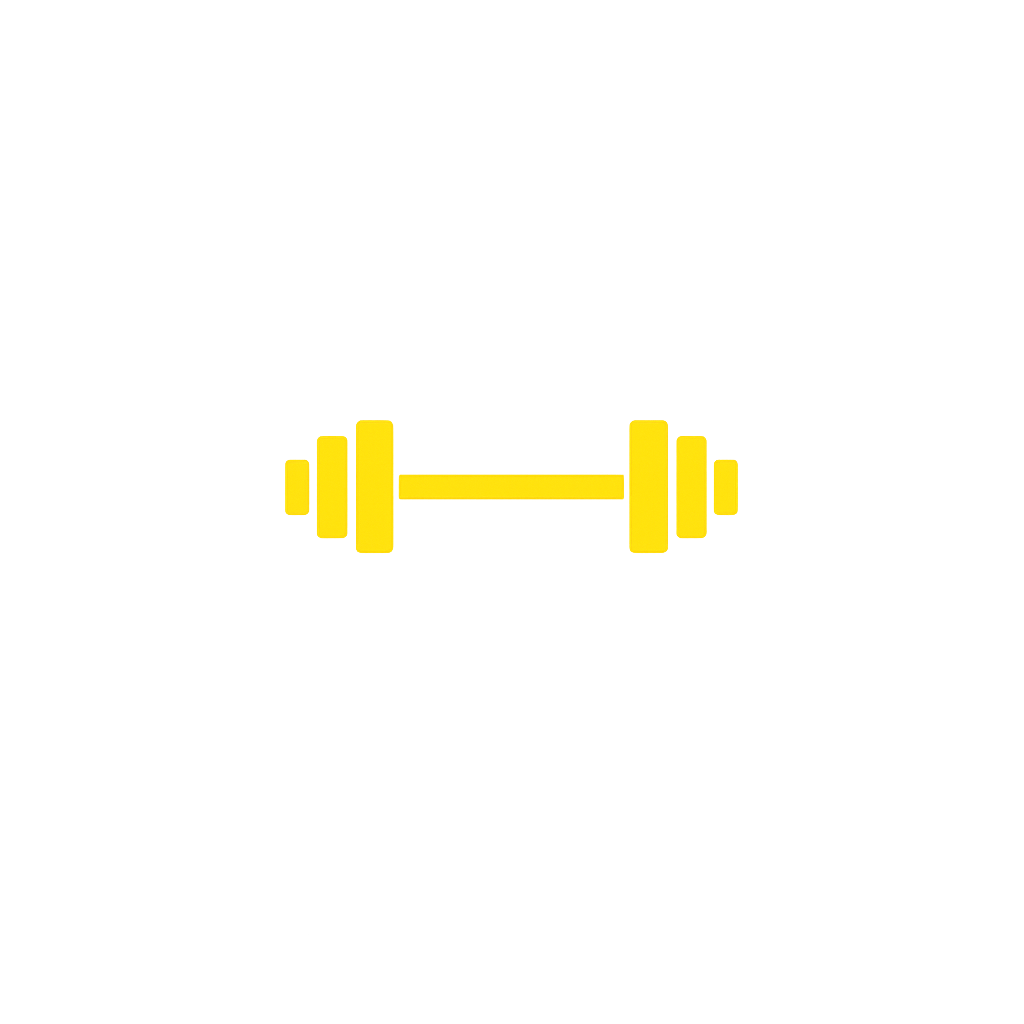
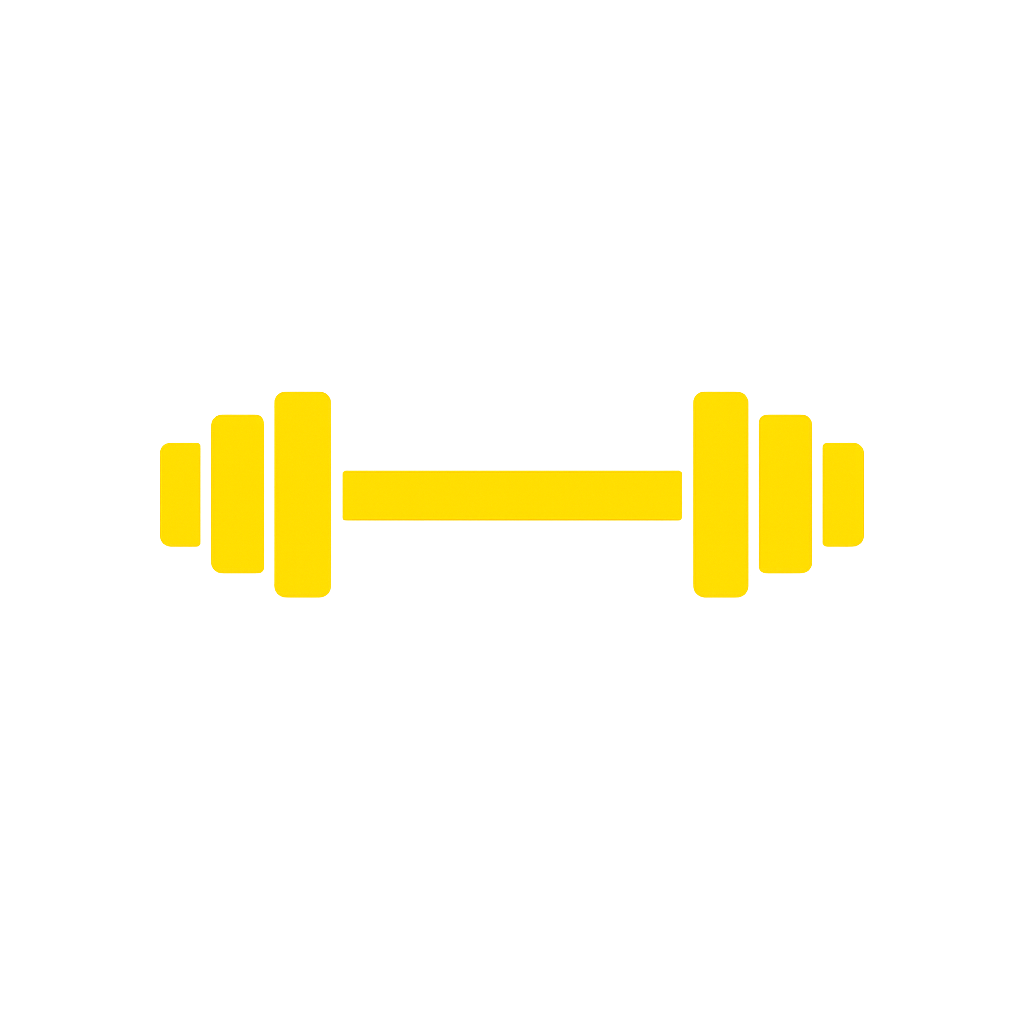
phase 2

Changed region(s): [[0.1562, 0.375, 0.8438, 0.5938]]

diff --git a/docs/index.html b/docs/index.html
@@ -582,68 +582,275 @@
   </div>
 
   <!-- ======================== PHASE 2 ======================== -->
-  <div class="phase-section" id="phase-1">
-    <div class="phase-header">
-      <div class="phase-num">02</div>
-      <div class="phase-info">
-        <h2>CONTRÔLE EXCENTRIQUE</h2>
-        <p>Charger le tendon et les structures du genou via des excentriques lents. Phase de remodelage tissulaire.</p>
-        <span class="phase-duration">Semaines 5 à 8</span>
-      </div>
+<div class="phase-section" id="phase-1">
+  <div class="phase-header">
+    <div class="phase-num">02</div>
+    <div class="phase-info">
+      <h2>CONTRÔLE EXCENTRIQUE</h2>
+      <p>Charger le tendon et les structures du genou via des excentriques lents. Phase de remodelage tissulaire.</p>
+      <span class="phase-duration">Semaines 5 à 8</span>
     </div>
+  </div>
 
-    <div class="principle-box">
-      <strong>Principe THP :</strong> L'excentrique lent est ce qui remodelise le tendon rotulien. On allonge le temps sous tension vers le bas. Le genou apprend à absorber la charge progressivement. On garde l'ISO mais on ajoute maintenant du mouvement contrôlé.
-    </div>
+  <div class="principle-box">
+    <strong>Principe THP :</strong> L'excentrique lent est ce qui remodelise le tendon rotulien. On allonge le temps sous tension vers le bas. Le genou apprend à absorber la charge progressivement.
+  </div>
 
-    <div class="section-title">💪 Ancre isométrique — Évolution Phase 2</div>
+  <!-- ===== SÉANCE A ===== -->
+  <div class="session-label">Séance A — Lundi (ou Jour 1)</div>
+  <div class="session-title">BAS DU CORPS — EXCENTRIQUE</div>
+    <div class="section-title">💪 Isométrique</div>
     <table class="ex-table">
-      <thead><tr><th>Exercice</th><th>Sets × Durée</th><th>Note</th></tr></thead>
+      <thead><tr><th>Exercice</th><th>Sets × Durée</th><th>Rest</th></tr></thead>
       <tbody>
         <tr>
-          <td><span class="ex-name">Leg extension isométrique <span class="iso-badge">ISO</span></span><div class="ex-note">Augmenter légèrement le poids si toléré. Tenir 45s au lieu de 30s.</div></td>
+          <td><span class="ex-name">Leg extension isométrique <span class="iso-badge">ISO</span></span></td>
           <td class="ex-sets">4 × 45s</td>
-          <td>+5-10% charge si 30s était facile</td>
+          <td class="ex-rest">Quand tu es prêt</td>
         </tr>
       </tbody>
     </table>
 
-    <div class="section-title">🆕 Exercices ajoutés / modifiés en Phase 2</div>
+        <div class="section-title">🔥 Échauffement — 10 min</div>
     <table class="ex-table">
-      <thead><tr><th>Exercice</th><th>Sets × Reps</th><th>Tempo clé</th><th>Rest</th></tr></thead>
+      <thead><tr><th>Exercice</th><th>Durée / Reps</th></tr></thead>
+      <tbody>
+        <tr><td><span class="ex-name">Toe Touch</span></td><td>10</td></tr>
+        <tr><td><span class="ex-name">Deep Squat</span></td><td>10</td></tr>
+        <tr><td><span class="ex-name">Lunge</span></td><td>10</td></tr>
+        <tr><td><span class="ex-name">Arm Cicles</span></td><td>10</td></tr>
+        <tr><td><span class="ex-name">Side Lunge</span></td><td>10</td></tr>
+        <tr><td><span class="ex-name">Leg Swings</span></td><td>10</td></tr>
+        <tr><td><span class="ex-name">Kneeling Ankle Stretch</span></td><td>30s</td></tr>
+      </tbody>
+    </table>
+
+        <div class="section-title">🔥 Échauffement avec barre — 5 min</div>
+    <table class="ex-table">
+      <thead><tr><th>Exercice</th><th>Reps</th></tr></thead>
       <tbody>
         <tr>
-          <td><span class="ex-name">Leg extension excentrique</span><div class="ex-note">Monter avec les deux jambes (ou en aidant avec les mains), descendre avec une jambe en 4-5 secondes. Genou gauche = côté à travailler.</div></td>
-          <td class="ex-sets">4 × 8</td>
-          <td class="ex-tempo">1-0-5-0 (descente lente)</td>
-          <td class="ex-rest">2 min</td>
-        </tr>
+          <td><span class="ex-name">Overhead Press</span></td>
+          <td class="ex-sets">5</td>
+          </tr>
         <tr>
-          <td><span class="ex-name">Squat bulgare (poids léger ou poids du corps)</span><div class="ex-note">Pied arrière sur banc. Descente lente. Amplitude réduite si douleur.</div></td>
-          <td class="ex-sets">3 × 8/côté</td>
-          <td class="ex-tempo">4-1-2-0</td>
-          <td class="ex-rest">90s</td>
-        </tr>
+          <td><span class="ex-name">Front squat</span></td>
+          <td class="ex-sets">5</td>
+          </tr>
         <tr>
-          <td><span class="ex-name">Step-down excentrique (boîte 25-30cm)</span><div class="ex-note">Debout sur la boîte, descendre sur UNE jambe (gauche) en 4 sec. Revenir en posant les deux pieds.</div></td>
-          <td class="ex-sets">3 × 10/côté</td>
-          <td class="ex-tempo">4s descente</td>
-          <td class="ex-rest">90s</td>
-        </tr>
-        <tr>
-          <td><span class="ex-name">Leg press unilatéral (jambe gauche)</span><div class="ex-note">Amplitude progressive. Comparer la force G vs D.</div></td>
-          <td class="ex-sets">3 × 10</td>
-          <td class="ex-tempo">3-1-2-0</td>
-          <td class="ex-rest">90s</td>
-        </tr>
-        <tr>
-          <td><span class="ex-name">Nordic curl (partiel ou avec aide)</span><div class="ex-note">Renforcement ischio. Protège le genou en le stabilisant . Commencer avec une amplitude très réduite.</div></td>
-          <td class="ex-sets">3 × 5</td>
-          <td class="ex-tempo">Lent — contrôler la descente</td>
-          <td class="ex-rest">2 min</td>
+          <td><span class="ex-name">Back Squat</span></td>
+          <td class="ex-sets">5</td>
         </tr>
       </tbody>
     </table>
+
+  <div class="section-title">🦵 Bloc principal — Excentrique</div>
+  <table class="ex-table">
+    <thead><tr><th>Exercice</th><th>Sets × Reps</th><th>Tempo</th><th>Rest</th></tr></thead>
+    <tbody>
+      <tr>
+        <td><span class="ex-name">Leg extension excentrique</span><div class="ex-note">Monter avec les deux jambes, descendre avec le gauche seul en 5 sec. C'est l'exercice central de la phase.</div></td>
+        <td class="ex-sets">4 × 8</td>
+        <td class="ex-tempo">1-0-5-0</td>
+        <td class="ex-rest">2 min</td>
+      </tr>
+      <tr>
+        <td><span class="ex-name">Squat bulgare (poids du corps ou léger)</span><div class="ex-note">Pied arrière sur banc. Descente lente et contrôlée. Amplitude réduite si pincement.</div></td>
+        <td class="ex-sets">3 × 8/côté</td>
+        <td class="ex-tempo">4-1-2-0</td>
+        <td class="ex-rest">90s</td>
+      </tr>
+      <tr>
+        <td><span class="ex-name">Leg press unilatéral (jambe gauche)</span><div class="ex-note">Amplitude progressive. Comparer la force G vs D — noter l'écart.</div></td>
+        <td class="ex-sets">3 × 10</td>
+        <td class="ex-tempo">3-1-2-0</td>
+        <td class="ex-rest">90s</td>
+      </tr>
+      <tr>
+        <td><span class="ex-name">Nordic curl (partiel ou avec aide)</span><div class="ex-note">Amplitude très réduite au début. Contrôler la descente — c'est la phase excentrique qui compte.</div></td>
+        <td class="ex-sets">3 × 5</td>
+        <td class="ex-tempo">Descente 4-5s contrôlée</td>
+        <td class="ex-rest">2 min</td>
+      </tr>
+      <tr>
+        <td><span class="ex-name">Hip thrust avec barre</span><div class="ex-note">Extension de hanche. Protège le genou, renforce le fessier.</div></td>
+        <td class="ex-sets">3 × 12</td>
+        <td class="ex-tempo">2-2-1-0</td>
+        <td class="ex-rest">75s</td>
+      </tr>
+    </tbody>
+  </table>
+
+  <div class="section-title">🧱 Tronc</div>
+  <table class="ex-table">
+    <thead><tr><th>Exercice</th><th>Sets × Reps</th><th>Note</th></tr></thead>
+    <tbody>
+      <tr><td><span class="ex-name">Planche avant</span></td><td class="ex-sets">3 × 40s</td><td>+10s vs Phase 1</td></tr>
+      <tr><td><span class="ex-name">Dead bug</span></td><td class="ex-sets">3 × 10/côté</td><td>Dos collé au sol, lent</td></tr>
+    </tbody>
+  </table>
+
+  <div class="divider"></div>
+
+  <!-- ===== SÉANCE B ===== -->
+  <div class="session-label">Séance B — Mercredi (ou Jour 2)</div>
+  <div class="session-title">HAUT DU CORPS + ISO MAINTENANCE</div>
+
+    <div class="section-title">💪 Isométrique</div>
+    <table class="ex-table">
+      <thead><tr><th>Exercice</th><th>Sets × Durée</th><th>Rest</th></tr></thead>
+      <tbody>
+        <tr>
+          <td><span class="ex-name">Leg extension isométrique <span class="iso-badge">ISO</span></span></td>
+          <td class="ex-sets">4 × 45s</td>
+          <td class="ex-rest">Quand tu es prêt</td>
+        </tr>
+      </tbody>
+    </table>
+
+        <div class="section-title">🔥 Échauffement — 10 min</div>
+    <table class="ex-table">
+      <thead><tr><th>Exercice</th><th>Durée / Reps</th></tr></thead>
+      <tbody>
+        <tr><td><span class="ex-name">Toe Touch</span></td><td>10</td></tr>
+        <tr><td><span class="ex-name">Deep Squat</span></td><td>10</td></tr>
+        <tr><td><span class="ex-name">Lunge</span></td><td>10</td></tr>
+        <tr><td><span class="ex-name">Arm Cicles</span></td><td>10</td></tr>
+        <tr><td><span class="ex-name">Side Lunge</span></td><td>10</td></tr>
+        <tr><td><span class="ex-name">Leg Swings</span></td><td>10</td></tr>
+        <tr><td><span class="ex-name">Kneeling Ankle Stretch</span></td><td>30s</td></tr>
+      </tbody>
+    </table>
+
+        <div class="section-title">🔥 Échauffement avec barre — 5 min</div>
+    <table class="ex-table">
+      <thead><tr><th>Exercice</th><th>Reps</th></tr></thead>
+      <tbody>
+        <tr>
+          <td><span class="ex-name">Overhead Press</span></td>
+          <td class="ex-sets">5</td>
+          </tr>
+        <tr>
+          <td><span class="ex-name">Front squat</span></td>
+          <td class="ex-sets">5</td>
+          </tr>
+        <tr>
+          <td><span class="ex-name">Back Squat</span></td>
+          <td class="ex-sets">5</td>
+        </tr>
+      </tbody>
+    </table>
+
+  <div class="section-title">🦾 Haut du corps</div>
+  <table class="ex-table">
+    <thead><tr><th>Exercice</th><th>Sets × Reps</th><th>Tempo</th><th>Rest</th></tr></thead>
+    <tbody>
+      <tr><td><span class="ex-name">Tirage horizontal (câble ou machine)</span><div class="ex-note">Omoplate rétractée en fin de mouvement.</div></td><td class="ex-sets">4 × 10</td><td class="ex-tempo">3-1-2-0</td><td class="ex-rest">75s</td></tr>
+      <tr><td><span class="ex-name">Développé haltères (incliné léger)</span><div class="ex-note">Descente contrôlée. Ne pas rebondir en bas.</div></td><td class="ex-sets">4 × 10</td><td class="ex-tempo">3-0-2-0</td><td class="ex-rest">75s</td></tr>
+      <tr><td><span class="ex-name">Lat pulldown</span></td><td class="ex-sets">3 × 10</td><td class="ex-tempo">3-1-2-0</td><td class="ex-rest">75s</td></tr>
+      <tr><td><span class="ex-name">Curl biceps haltères</span><div class="ex-note">Supination complète. Pas de swing.</div></td><td class="ex-sets">3 × 12</td><td class="ex-tempo">2-1-2-0</td><td class="ex-rest">60s</td></tr>
+      <tr><td><span class="ex-name">Extensions triceps (câble)</span></td><td class="ex-sets">3 × 12</td><td class="ex-tempo">2-1-2-0</td><td class="ex-rest">60s</td></tr>
+      <tr><td><span class="ex-name">Face pull (câble)</span><div class="ex-note">Santé des épaules. Coudes hauts, rotation externe en fin de mouvement.</div></td><td class="ex-sets">3 × 15</td><td class="ex-tempo">2-1-1-0</td><td class="ex-rest">60s</td></tr>
+    </tbody>
+  </table>
+
+  <div class="divider"></div>
+
+  <!-- ===== SÉANCE C ===== -->
+  <div class="session-label">Séance C — Vendredi (ou Jour 3)</div>
+  <div class="session-title">BAS DU CORPS VARIATION + TRONC</div>
+
+    <div class="section-title">💪 Isométrique</div>
+    <table class="ex-table">
+      <thead><tr><th>Exercice</th><th>Sets × Durée</th><th>Rest</th></tr></thead>
+      <tbody>
+        <tr>
+          <td><span class="ex-name">Leg extension isométrique <span class="iso-badge">ISO</span></span></td>
+          <td class="ex-sets">4 × 45s</td>
+          <td class="ex-rest">Quand tu es prêt</td>
+        </tr>
+      </tbody>
+    </table>
+
+        <div class="section-title">🔥 Échauffement — 10 min</div>
+    <table class="ex-table">
+      <thead><tr><th>Exercice</th><th>Durée / Reps</th></tr></thead>
+      <tbody>
+        <tr><td><span class="ex-name">Toe Touch</span></td><td>10</td></tr>
+        <tr><td><span class="ex-name">Deep Squat</span></td><td>10</td></tr>
+        <tr><td><span class="ex-name">Lunge</span></td><td>10</td></tr>
+        <tr><td><span class="ex-name">Arm Cicles</span></td><td>10</td></tr>
+        <tr><td><span class="ex-name">Side Lunge</span></td><td>10</td></tr>
+        <tr><td><span class="ex-name">Leg Swings</span></td><td>10</td></tr>
+        <tr><td><span class="ex-name">Kneeling Ankle Stretch</span></td><td>30s</td></tr>
+      </tbody>
+    </table>
+
+        <div class="section-title">🔥 Échauffement avec barre — 5 min</div>
+    <table class="ex-table">
+      <thead><tr><th>Exercice</th><th>Reps</th></tr></thead>
+      <tbody>
+        <tr>
+          <td><span class="ex-name">Overhead Press</span></td>
+          <td class="ex-sets">5</td>
+          </tr>
+        <tr>
+          <td><span class="ex-name">Front squat</span></td>
+          <td class="ex-sets">5</td>
+          </tr>
+        <tr>
+          <td><span class="ex-name">Back Squat</span></td>
+          <td class="ex-sets">5</td>
+        </tr>
+      </tbody>
+    </table>
+
+  <div class="section-title">🦵 Bas du corps — Excentrique variation</div>
+  <table class="ex-table">
+    <thead><tr><th>Exercice</th><th>Sets × Reps</th><th>Tempo</th><th>Rest</th></tr></thead>
+    <tbody>
+      <tr>
+        <td><span class="ex-name">Step-down excentrique (boîte 30cm)</span><div class="ex-note">Descendre sur le gauche en 5 sec. Revenir en posant les deux pieds. Progression vs sem. précédentes (boîte plus haute, descente plus lente).</div></td>
+        <td class="ex-sets">4 × 10/côté</td>
+        <td class="ex-tempo">5s descente</td>
+        <td class="ex-rest">90s</td>
+      </tr>
+      <tr>
+        <td><span class="ex-name">RDL haltères (Romanian deadlift)</span><div class="ex-note">Peu de stress sur le genou, beaucoup sur les ischio et fessier.</div></td>
+        <td class="ex-sets">3 × 10</td>
+        <td class="ex-tempo">3-1-2-0</td>
+        <td class="ex-rest">90s</td>
+      </tr>
+      <tr>
+        <td><span class="ex-name">Leg curl couché unilatéral</span><div class="ex-note">Gauche en premier. Comparer G vs D — viser la symétrie semaine après semaine.</div></td>
+        <td class="ex-sets">3 × 10/côté</td>
+        <td class="ex-tempo">3-1-2-0</td>
+        <td class="ex-rest">75s</td>
+      </tr>
+      <tr>
+        <td><span class="ex-name">Abduction de hanche (machine)</span></td>
+        <td class="ex-sets">3 × 15</td>
+        <td class="ex-tempo">2-1-2-0</td>
+        <td class="ex-rest">60s</td>
+      </tr>
+      <tr>
+        <td><span class="ex-name">Calf raise unilatéral (machine)</span><div class="ex-note">Gauche en premier. Pause 2s en bas — étire le tendon d'Achille et charge le mollet en position allongée.</div></td>
+        <td class="ex-sets">4 × 12/côté</td>
+        <td class="ex-tempo">2-2-1-0</td>
+        <td class="ex-rest">60s</td>
+      </tr>
+    </tbody>
+  </table>
+
+  <div class="section-title">🧱 Tronc</div>
+  <table class="ex-table">
+    <thead><tr><th>Exercice</th><th>Sets × Reps</th><th>Note</th></tr></thead>
+    <tbody>
+      <tr><td><span class="ex-name">Planche avant</span></td><td class="ex-sets">3 × 40s</td><td>+10s vs Phase 1</td></tr>
+      <tr><td><span class="ex-name">Pallof press (câble)</span><div class="ex-note">Anti-rotation. Stabilise le bassin.</div></td><td class="ex-sets">3 × 10/côté</td><td>Lent, contrôlé</td></tr>
+      <tr><td><span class="ex-name">Dead bug</span></td><td class="ex-sets">3 × 10/côté</td><td>Dos collé au sol</td></tr>
+    </tbody>
+  </table>
 
     <div class="tip-box">
       <strong>✅ Signal de progression :</strong> À la fin de la semaine 8, si le genou ne réagit plus après les séances, si le step-down est possible sans douleur, et si le leg ext excentrique est fluide → Phase 3.
